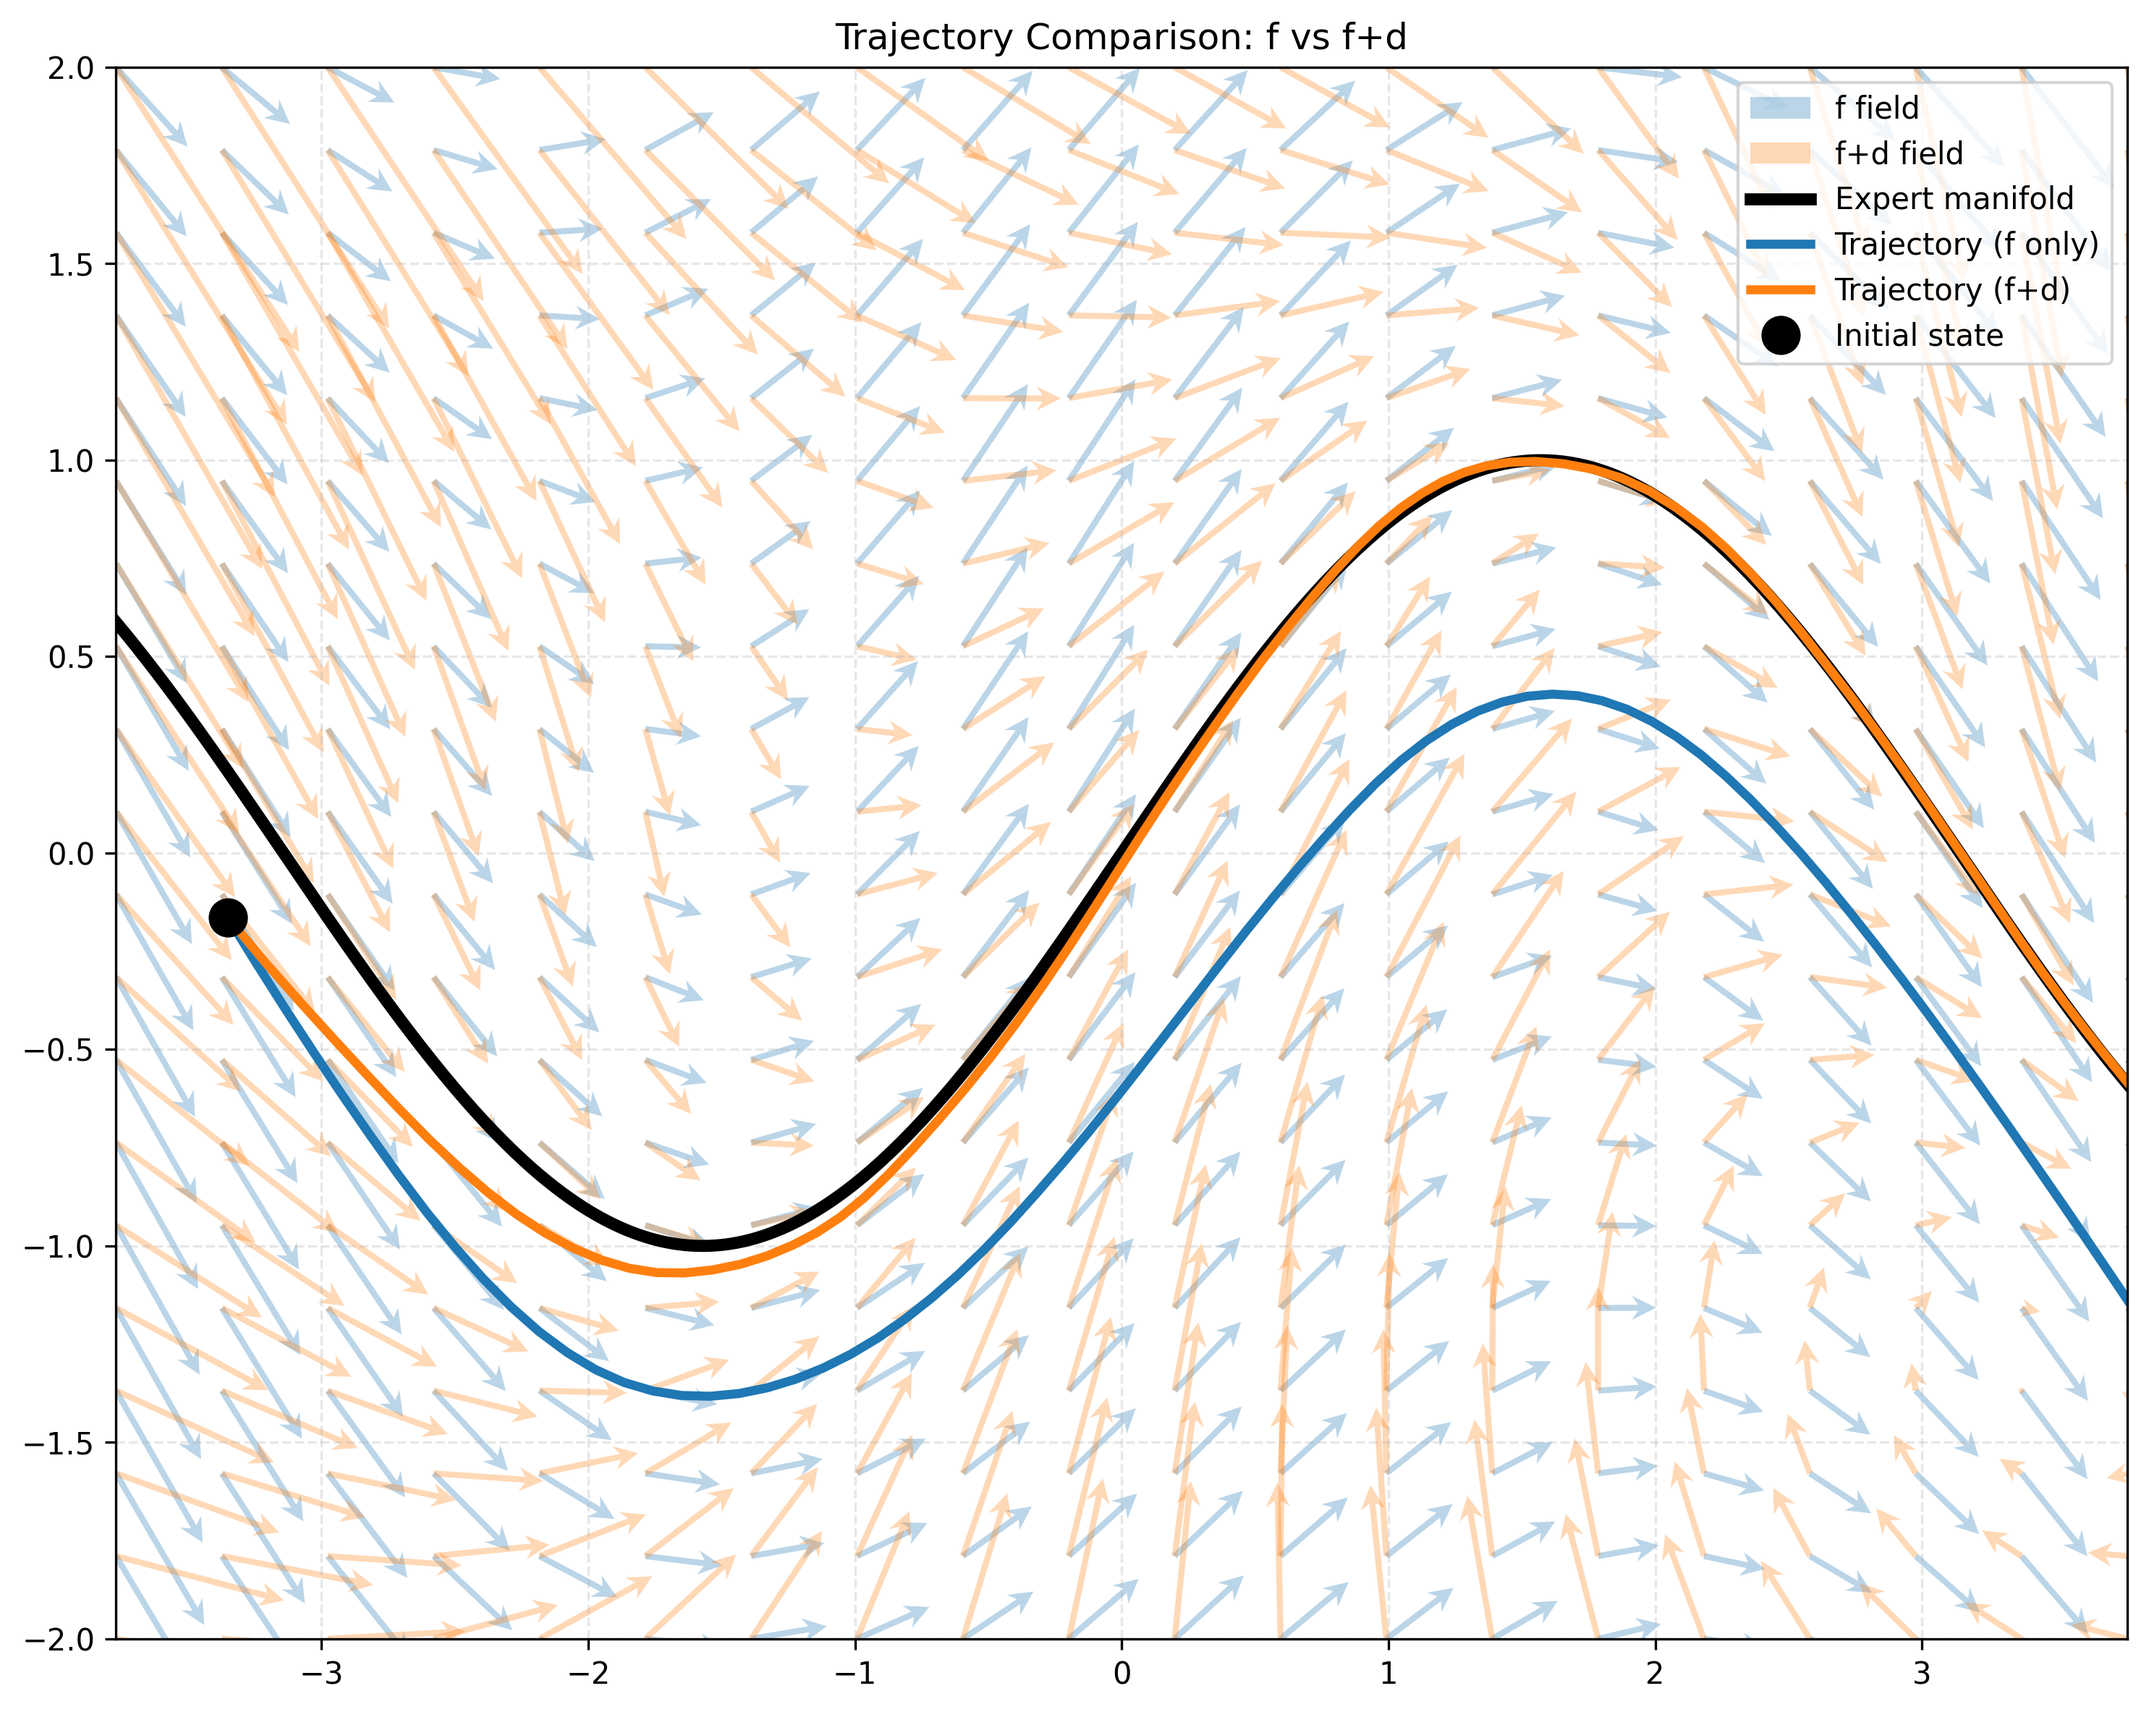
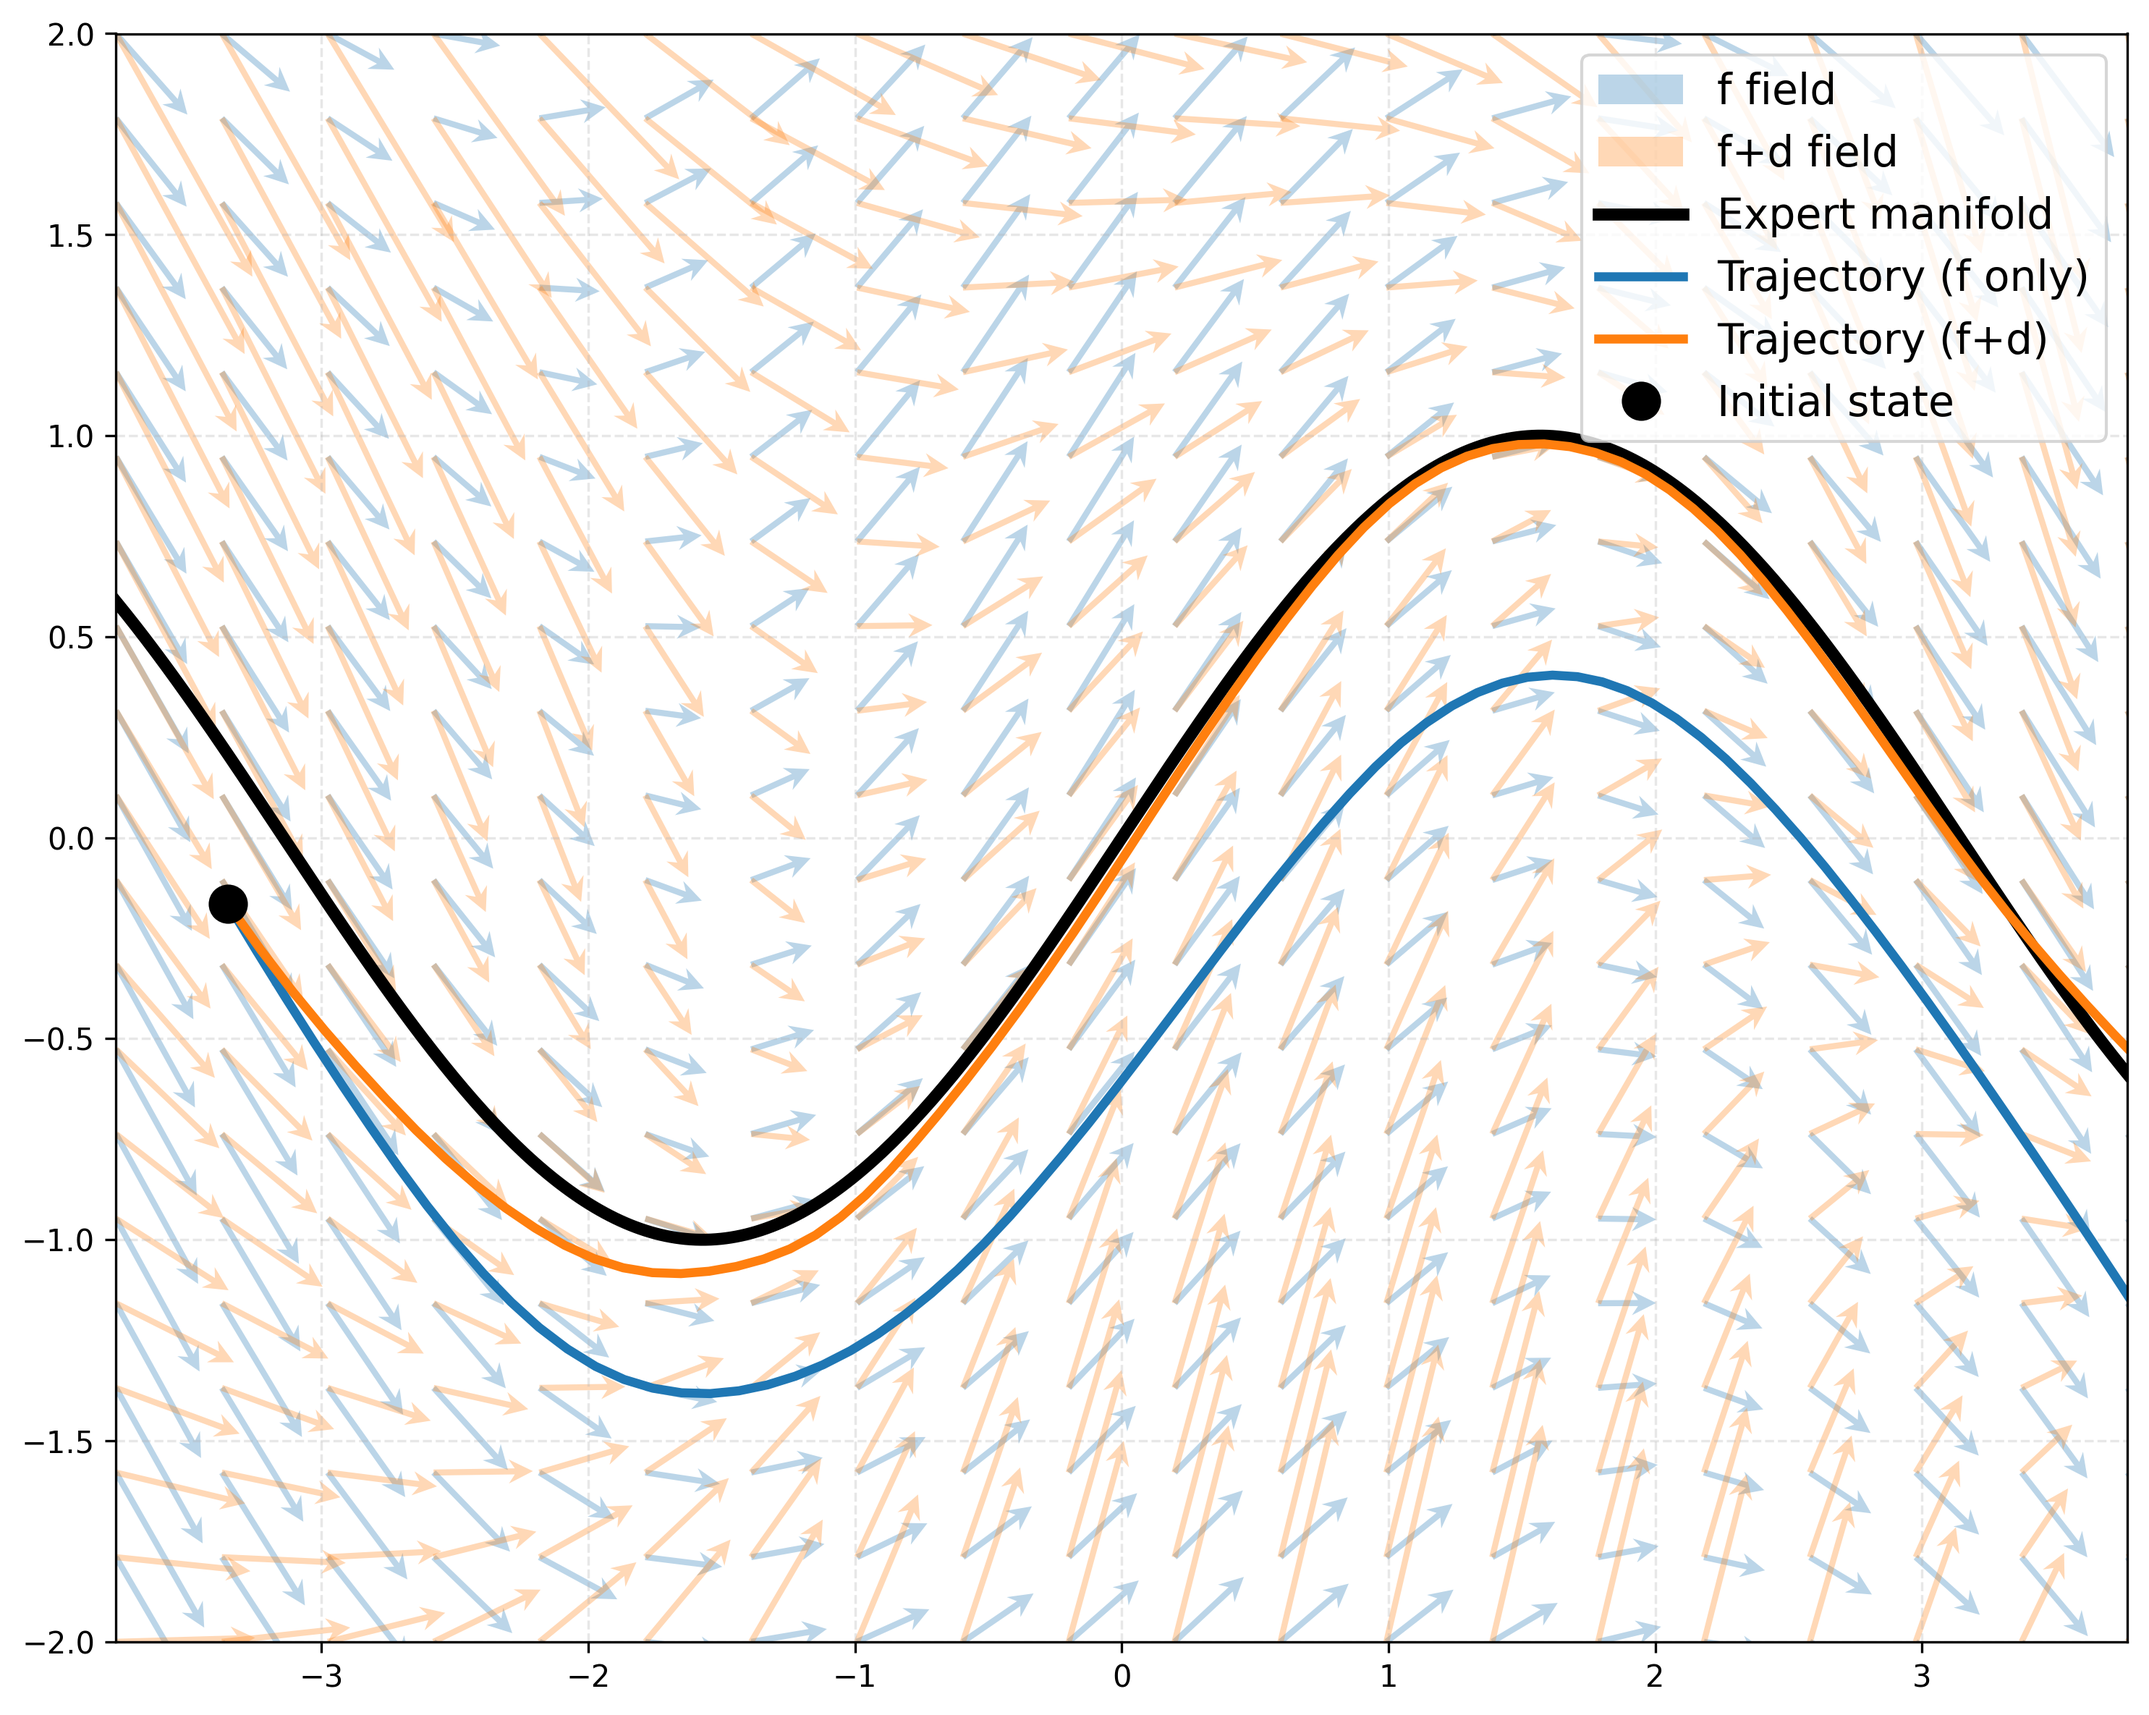
optimize visualization

Changed region(s): [[0.0, 0.0, 0.9912, 0.9565], [0.4337, 0.8948, 0.4646, 0.9256]]

diff --git a/joint_state_action_denoising_training/scripts/illustrative_figure.py b/joint_state_action_denoising_training/scripts/illustrative_figure.py
@@ -208,7 +208,7 @@ def main():
     print("Finished training drift.\n")
 
     print("Training denoising network d...")
-    net_d = train_network(net_d, X_d, Y_d, epochs=2000, lr=1e-3)
+    net_d = train_network(net_d, X_d, Y_d, epochs=500, lr=1e-3)
     print("Finished training denoising.\n")
 
     # Set noise scale for rollout
@@ -302,11 +302,11 @@ def main():
     ax.plot(traj_fd_x, traj_fd_y, color=fd_color, linestyle='-', linewidth=3, label="Trajectory (f+d)")
     ax.plot([x0], [y0], 'ko', markersize=12, label="Initial state")
     
-    ax.legend(loc='upper right')
+    # Add legend with larger font
+    ax.legend(loc='upper right', fontsize=14)
     ax.set_xlim([-1.2*np.pi, 1.2*np.pi])  # Match grid x range
     ax.set_ylim([-2.0, 2.0])              # Match grid y range
     ax.grid(True, linestyle='--', alpha=0.3)
-    ax.set_title("Trajectory Comparison: f vs f+d")
     
     plt.tight_layout()
     # Save the comparison figure
